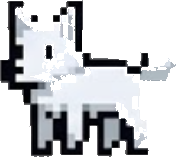
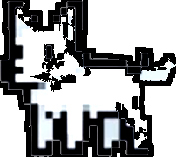
Vertical studio arena, bomber to 3hp, jump pose, fox outline
Act 3's bomber goes to 3 hits.

The act 2 arena was act 3's with different art - low riser, wide middle,
low riser, both of them. It is vertical now: the Anchor owns the floor
and never leaves it, the news desk and two lighting gantries above are
yours, and one camera sits on each level of the room. Verified hop by
hop: floor->desk lands, desk->low gantry lands, low->high lands, and
floor->gantry correctly fails back to the floor, so the climb is real.

The running fox had lost its outline in extraction - the checkerboard's
dark grey and the fox's own outline were the same value - so next to the
sitting pose it read as a pale flat slab. Outline baked back on at source
resolution (5px, which lands just under 1px after the 6x downscale) plus
a contrast lift, and drawn a little larger at 28.

jump.png wired as the airborne pose. Its hitbox fractions are never read,
so the art swap cannot change collision. The rose is an overlay, not part
of any pose, so it is repositioned per pose - the jump throws a fist up
and forward and the rose has to follow it there.

Also: invincible contact now runs an enemy's own death routine if it has
one. Smashing a camera while invincible was flagging it dead without
cutting the feed, so the Anchor's bar stayed on four with every camera
already gone.

Cache buster to v14.

diff --git a/game.js b/game.js
@@ -67,6 +67,10 @@ const SPRITES = {
      shrinks far enough to open a band a bullet can pass through, and 0.78 of
      22px gives 17 against the standing 28 - an 11px window. See BULLET.ride. */
   squat:  { src: 'assets/squat.png',  h: 22, hitW: 0.62, hitH: 0.78, color: '#2b3a5e' },
+  /* Airborne pose. Its hitW/hitH are never read - the collision box only ever
+     comes from 'hero' and 'squat', so swapping the art mid-jump cannot change
+     what he collides with. */
+  jump:   { src: 'assets/jump.png',   h: 30, hitW: 0.55, hitH: 0.92, color: '#2b3a5e' },
   walker: { src: 'assets/walker.png', h: 19, hitW: 0.70, hitH: 0.90, color: '#4a7a2f' },
   mid:    { src: 'assets/mid.png',    h: 30, hitW: 0.80, hitH: 0.82, color: '#2d4a7a' },
   boss:   { src: 'assets/boss.png',   h: 34, hitW: 0.55, hitH: 0.90, color: '#1a1a1a' },
@@ -86,7 +90,11 @@ const SPRITES = {
   l3bomb:  { src: 'assets/l3_bomb.png',      h: 31, hitW: 0.55, hitH: 0.90, color: '#e0e0d0',
              key: { minHolePct: Infinity } },
   l3dard:  { src: 'assets/l3_dardubala.png', h: 40, hitW: 0.55, hitH: 0.90, color: '#c03030' },
-  l3foxrun:{ src: 'assets/l3_fox_run.png',   h: 26, hitW: 0.80, hitH: 0.80, color: '#dde3ec' },
+  /* 28, not 26, and the art itself now carries a baked dark outline plus a
+     contrast lift. The extraction had eaten its outline - the checkerboard's
+     dark grey and the fox's own were the same value - and next to the sitting
+     pose it read as a pale flat slab rather than the same animal. */
+  l3foxrun:{ src: 'assets/l3_fox_run.png',   h: 28, hitW: 0.80, hitH: 0.80, color: '#dde3ec' },
   l3foxsit:{ src: 'assets/l3_fox_sit.png',   h: 30, hitW: 0.60, hitH: 0.85, color: '#dde3ec' },
   /* Act 2, the television company. Both backdrops are already dark interiors,
      so the haze is gentle - NIGHT_HAZE on top of them turned the screens to
@@ -774,10 +782,23 @@ const LEVEL_2 = {
     { x: 133, y: 8,  w: 3, t: T.PLATFORM },
 
     { x: 148, y: 10, w: 3, t: T.PLATFORM },
-    // the studio floor: a low riser he paces, reachable from either side
-    { x: 164, y: 11, w: 4, t: T.PLATFORM },
-    { x: 168, y: 10, w: 12, t: T.PLATFORM },
-    { x: 180, y: 11, w: 4, t: T.PLATFORM },
+    /* The studio is VERTICAL, and deliberately not act 3's arena.
+
+       Parliament is a symmetric three-tier staircase you climb to reach the
+       man standing on top of it, and act 2 had been built as the same shape
+       with different art: low riser, wide middle, low riser. Here the Anchor
+       owns the FLOOR and never leaves it - he ignores one-way tiles like every
+       other enemy - while the desk and the lighting gantries above are yours.
+       One camera is down on his floor, in his fire; the other two are up in
+       the rigging. So the fight is a climb and two descents rather than a
+       staircase.
+
+       Heights are chosen so the route is forced: a 69px jump reaches y=139
+       from the floor, which clears the desk at 176 but NOT gantry A at 128.
+       You have to go floor -> desk -> gantry. */
+    { x: 170, y: 11, w: 5, t: T.PLATFORM },   // the news desk
+    { x: 176, y: 9,  w: 4, t: T.PLATFORM },   // lighting gantry, low
+    { x: 181, y: 7,  w: 4, t: T.PLATFORM },   // lighting gantry, high
   ],
 
   pipes: [
@@ -803,9 +824,11 @@ const LEVEL_2 = {
     { t: 'l2girl2', x: 102 }, { t: 'l2girl', x: 110 },
     { t: 'l2man',   x: 120 }, { t: 'l2girl2', x: 128 },
     { t: 'l2girl',  x: 146 }, { t: 'l2man',  x: 154 },
-    // the three feeds. Spread across the studio so none can be reached
-    // without crossing his fire.
-    { t: 'l2camera', x: 165 }, { t: 'l2camera', x: 178 }, { t: 'l2camera', x: 188 },
+    /* One feed per level of the room: his floor, the desk, the high gantry.
+       Each is a different traversal problem, which is the point of the space. */
+    { t: 'l2camera', x: 159 },    // on the floor, in his fire
+    { t: 'l2camera', x: 172 },    // on the news desk
+    { t: 'l2camera', x: 182 },    // up in the rigging
     { t: 'l2anchor', x: 174 },
   ],
 
@@ -2325,7 +2348,9 @@ class StudioCamera extends Entity {
     this.t += dt;
     if (this.settled) return;
     this.vy = Math.min(this.vy + CFG.gravity * dt, CFG.maxFall);
-    moveAndCollide(this, dt, { oneWay: false });
+    // oneWay TRUE, unlike every other enemy: a camera is set down on the
+    // gantry it is meant to film from, and must not drop through it
+    moveAndCollide(this, dt, { oneWay: true });
     if (this.onGround) { this.settled = true; this.vx = 0; this.vy = 0; }
   }
   onStomp(p) { p.vy = CFG.stompBounce; this.smash(p); }
@@ -2499,7 +2524,7 @@ class PressGirl  extends Journalist { constructor(tx) { super(tx, 'l2girl',  'hi
 class PressGirl2 extends Journalist { constructor(tx) { super(tx, 'l2girl2', 'charge'); } }
 class PressMan   extends Journalist { constructor(tx) { super(tx, 'l2man',   'low');    } }
 
-const BOMBER = { hp: 2, walk: 26, throwEvery: 2.7, range: 165,
+const BOMBER = { hp: 3, walk: 26, throwEvery: 2.7, range: 165,
                  blast: 44,        // radius that catches HIM
                  blastP: 26,       // ...and the smaller one that catches YOU
                  fuse: 2.9, puntFuse: 1.15, puntVel: 245, flee: 38 };
@@ -3980,6 +4005,11 @@ function resolveEnemies(dt) {
     // Khachapuri: touching anything destroys it. Bosses are exempt — they are
     // only ever damaged by a stomp in their own vulnerable window.
     if (p.invincible > 0 && !isBoss) {
+      /* Anything with its own death routine runs it rather than being
+         silently flagged dead. A studio camera has to tell the Anchor its
+         feed is gone; killing it this way left his health bar reading four
+         with every camera already smashed. */
+      if (e.smash) { e.smash(p); continue; }
       e.hp = 0; e.dead = true;
       game.addCombo(p, e.cx, e.y, 400);
       burst(e.cx, e.y + e.h / 2, 20, { colors: ['#ffd85e', '#ff5ec4', '#fff'], speed: 150, size: 3 });
@@ -5184,12 +5214,20 @@ function drawEntities() {
     const expiring = inv && p.invincible < 1.6;   // flicker out as it runs down
     const tint = inv && (!expiring || Math.floor(p.invincible * 12) % 2 === 0)
       ? INV_TINTS[Math.floor(game.time * 14) % INV_TINTS.length] : null;
-    const art = p.crouching ? ART.squat : ART.hero;
-    drawSprite(art, p, { squash: p.crouching ? 1 : sq, tint });
+    const airborne = !p.onGround && !p.crouching;
+    const art = p.crouching ? ART.squat : airborne ? ART.jump : ART.hero;
+    // the jump art is a pose, not a stretch: squashing it too reads as rubber
+    drawSprite(art, p, { squash: (p.crouching || airborne) ? 1 : sq, tint });
 
     const dw = Math.round(art.w / sq), dh = Math.round(art.h * sq);
-    drawMiniRose(p.face > 0 ? p.cx + dw * 0.26 : p.cx - dw * 0.26 - 4,
-                 p.bottom - dh * 0.54);
+    /* The rose is an overlay, not part of any of the three poses, so it has to
+       be put back in the right hand for each of them. The jump pose throws a
+       fist up and forward, so it rides higher and further out than the
+       standing one - otherwise it floats by his hip while his arm is over his
+       head. */
+    drawMiniRose(p.face > 0 ? p.cx + dw * (airborne ? 0.30 : 0.26)
+                            : p.cx - dw * (airborne ? 0.30 : 0.26) - 4,
+                 p.bottom - dh * (airborne ? 0.76 : 0.54));
 
     // Hearts orbiting his head while he is stuck staring.
     if (p.charmed > 0)

diff --git a/index.html b/index.html
@@ -44,6 +44,6 @@
        change you just shipped simply is not there. index.html itself is served
        with max-age=600, so the new number reaches them within ten minutes and
        pulls the new script with it. -->
-  <script src="game.js?v=13"></script>
+  <script src="game.js?v=14"></script>
 </body>
 </html>

diff --git a/README.md b/README.md
@@ -51,6 +51,7 @@ Named on-screen on two lines, because "ACHARULI KHACHAPURI" on one line is
 | **White powder** | Double jump for 18 seconds, then it wears off (`POWDER_TIME`). Placed ahead of every boss so a death is never a walk back in without it. |
 | **Ultra white powder** (Act 1) | **One** charge, no clock. The next jump off the ground launches at `ultraJumpVel` and raises the air speed cap to `ultraAirMax` until he lands, and `jumpCut` does not apply. It only exists to cross the blown bridge — see *The bridge*. Only the first one scores. |
 | **Hot tea** (Act 3) | Act 2's version of the same 9s invincibility. |
+| **Jump pose** | `jump.png` is drawn whenever he is airborne and not crouching. Its `hitW`/`hitH` are never read — the collision box only ever comes from `hero` and `squat` — so swapping the art mid-jump cannot change what he collides with. The rose is an overlay rather than part of any pose, so it is repositioned per pose; the jump throws a fist up and forward, so it rides higher and further out or it floats by his hip while his arm is over his head. |
 | **Matsoni** (Act 2) | Act 2's invincibility. A clay bowl, deliberately not the tea cup — each act's pickup should be recognisable from its silhouette alone. |
 | **Rose** | Heals a heart. At full health it grants a **temporary 4th heart** instead (22s, up to 2 stacked, pink in the HUD). Temporary hearts are spent before real ones and wither one at a time. |
 
@@ -504,6 +505,19 @@ Each telegraphs its own lane at the height it will arrive at, and the charger
 gets an arrow instead, because there is no lane — she *is* the projectile.
 
 ### The Anchor
+
+The arena is **vertical**, and deliberately not Act 3's. Parliament is a
+symmetric three-tier staircase (`196+6@r11 / 200+14@r9 / 214+6@r11`) and this
+had been built as the same shape with different art. Now the Anchor owns the
+floor and never leaves it — he ignores one-way tiles like every other enemy —
+while the news desk and the two lighting gantries above are yours. One camera
+is down on his floor in his fire; the other two are up in the rigging, so the
+fight is a climb and two descents rather than a staircase.
+
+Heights are chosen so the climb is real: a 69px jump reaches y=139 from the
+floor, which clears the desk at 176 but not the gantries. Verified hop by hop —
+floor→desk lands, desk→low gantry lands, low→high lands, and floor→gantry
+fails back to the floor.
 
 **Deliberately not another timing window.** He is never stompable while he is
 broadcasting: three cameras cover the studio, and while any tally light is lit,
